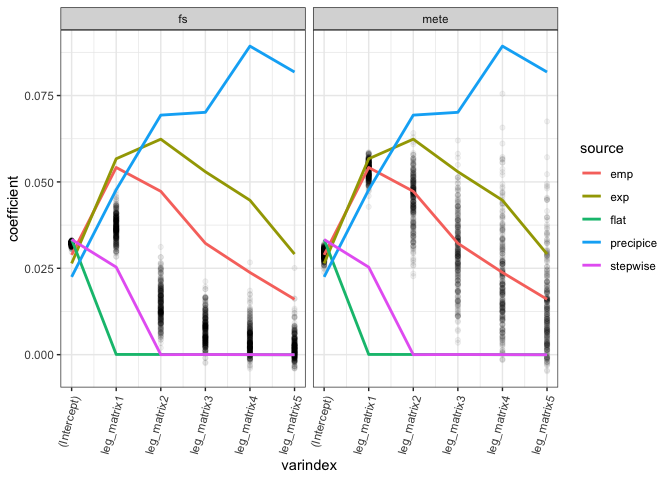
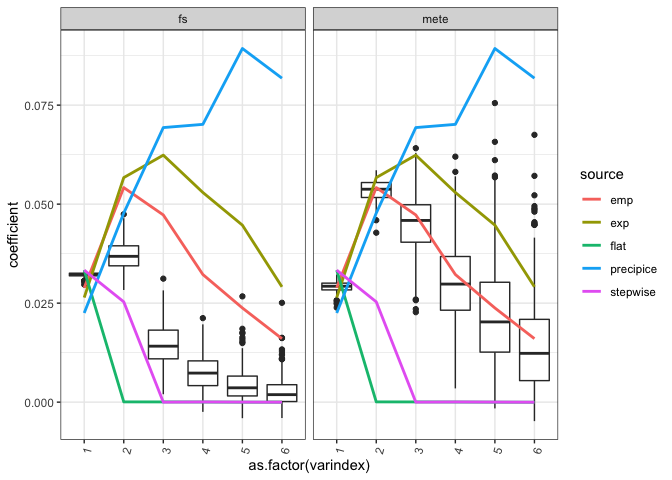
centroids for plants

diff --git a/reports/sensitivity_plants.md b/reports/sensitivity_plants.md
@@ -20,3 +20,18 @@ Renata Diaz
 ![](sensitivity_plants_files/figure-markdown_github/fit%20and%20plot%20sims-1.png)
 
 ![](sensitivity_plants_files/figure-markdown_github/coeff%20distances-1.png)
+
+Centroids
+---------
+
+    ## # A tibble: 6 x 5
+    ##   sim_source   sim varname     coefficient varindex
+    ##   <chr>      <int> <chr>             <dbl>    <int>
+    ## 1 mete           1 (Intercept)      0.0279        1
+    ## 2 mete           2 (Intercept)      0.0277        1
+    ## 3 mete           3 (Intercept)      0.0285        1
+    ## 4 mete           4 (Intercept)      0.0291        1
+    ## 5 mete           5 (Intercept)      0.0315        1
+    ## 6 mete           6 (Intercept)      0.0304        1
+
+![](sensitivity_plants_files/figure-markdown_github/centroids-1.png)![](sensitivity_plants_files/figure-markdown_github/centroids-2.png)
